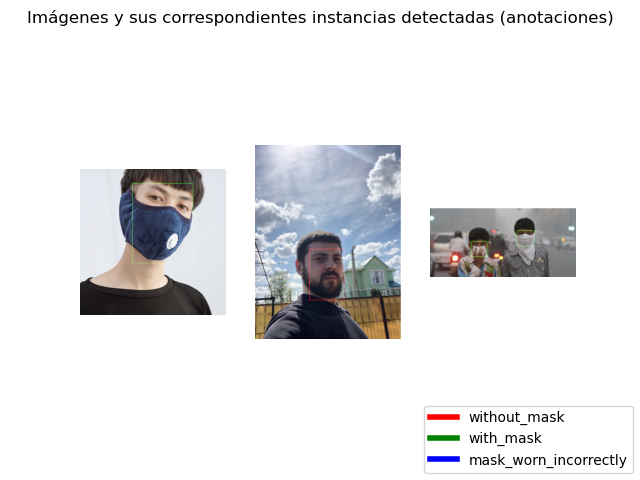
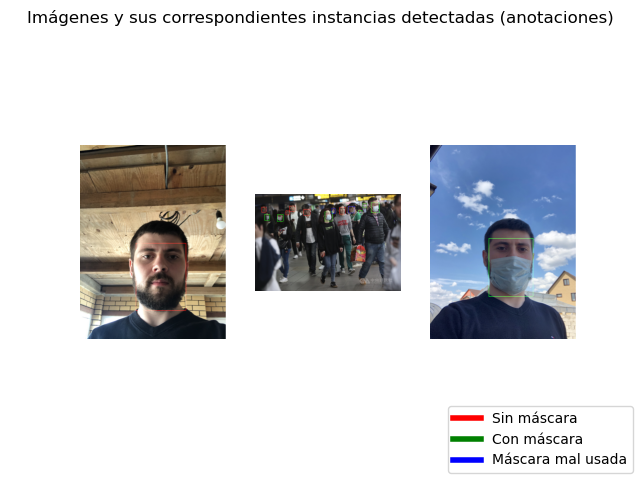
Spanish graph titles

Changed region(s): [[0.125, 0.2812, 0.625, 0.7188], [0.6562, 0.2812, 0.9062, 0.7188], [0.6562, 0.8438, 1.0, 0.9688]]

diff --git a/explore.py b/explore.py
@@ -8,7 +8,7 @@ from matplotlib.lines import Line2D
 
 # %% Displaying images and annotations
 # Taken from https://docs.python.org/3/library/os.html
-n = 2  # Number of images to select (should be at least 2!).
+n = 3  # Number of images to select (should be at least 2!).
 if n < 2 or n % 1 != 0:
     raise Exception('Invalid number of images (n should be an integer greater or equal to 2).')
 # Randomly selects n images form the database.
@@ -42,6 +42,12 @@ for root, dirs, files in os.walk(os.path.join('.', 'annotations')):
                 count[instance] += 1
             else:
                 count[instance] = 1
+
+# Hardcoded name of classes in Spanish for further graphs.
+es_keys = list(count.keys())
+es_keys[es_keys.index('without_mask')] = 'Sin máscara'
+es_keys[es_keys.index('with_mask')] = 'Con máscara'
+es_keys[es_keys.index('mask_weared_incorrect')] = 'Máscara mal usada'
 
 # %% Generating image annotation.
 # If annotations should be written above the box.
@@ -86,7 +92,7 @@ fig.suptitle('Imágenes y sus correspondientes instancias detectadas (anotacione
 custom_lines = []
 for i in range(img.ndim):
     custom_lines.append(Line2D([0], [0], color='rgb'[i % 3], lw=4))
-fig.legend(custom_lines, ['without_mask', 'with_mask', 'mask_worn_incorrectly'], loc='lower right')
+fig.legend(custom_lines, es_keys, loc='lower right')
 fig.show()
 fig.savefig('sample_database_images.png')
 input('Press enter to continue...')
@@ -94,7 +100,7 @@ input('Press enter to continue...')
 # %% Bar graph generation
 # Bar graph generation, taken from https://matplotlib.org/3.3.4/api/_as_gen/matplotlib.pyplot.bar.html
 # Hardcoded classes since there is a typo 'weared' (should be 'worn').
-bars = plt.bar(['without_mask', 'with_mask', 'mask_worn_incorrectly'], list(count.values()))
+bars = plt.bar(es_keys, list(count.values()))
 xmin, xmax, ymin, ymax = plt.axis()
 for bar in bars:
     y = bar.get_height()
